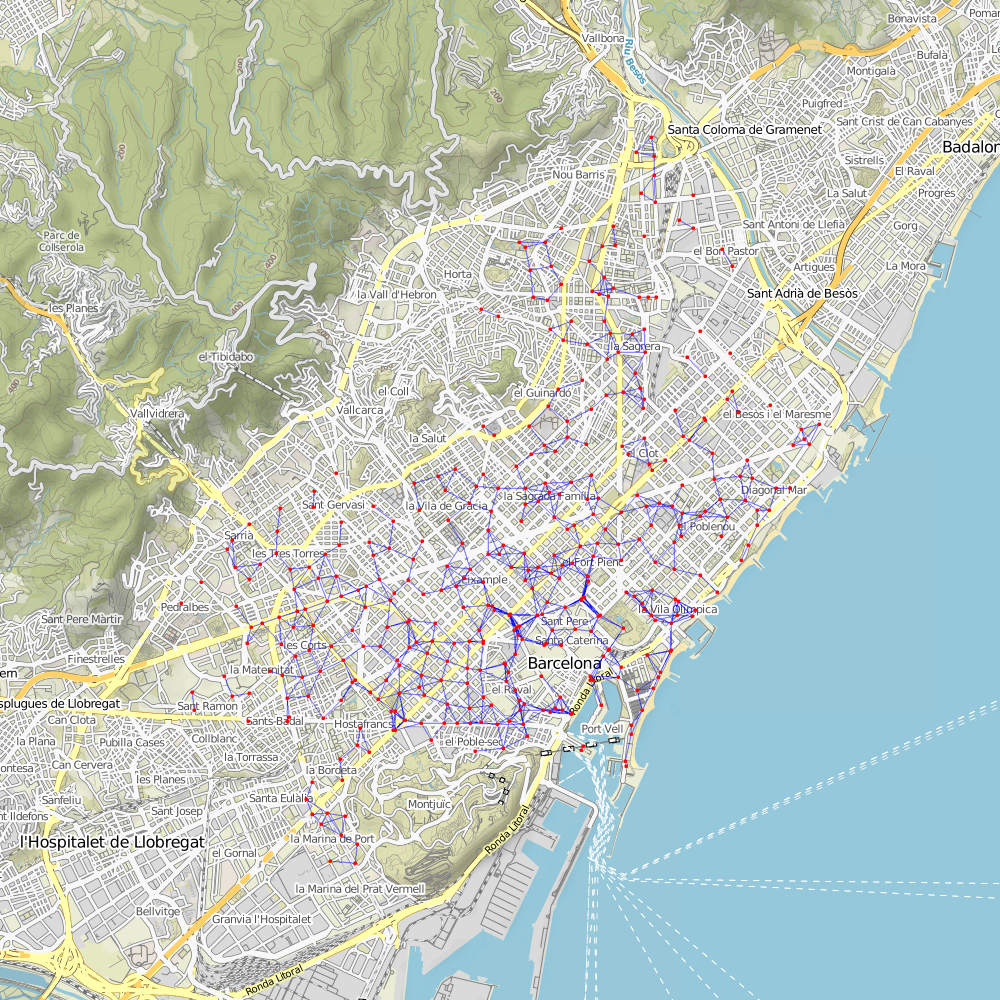
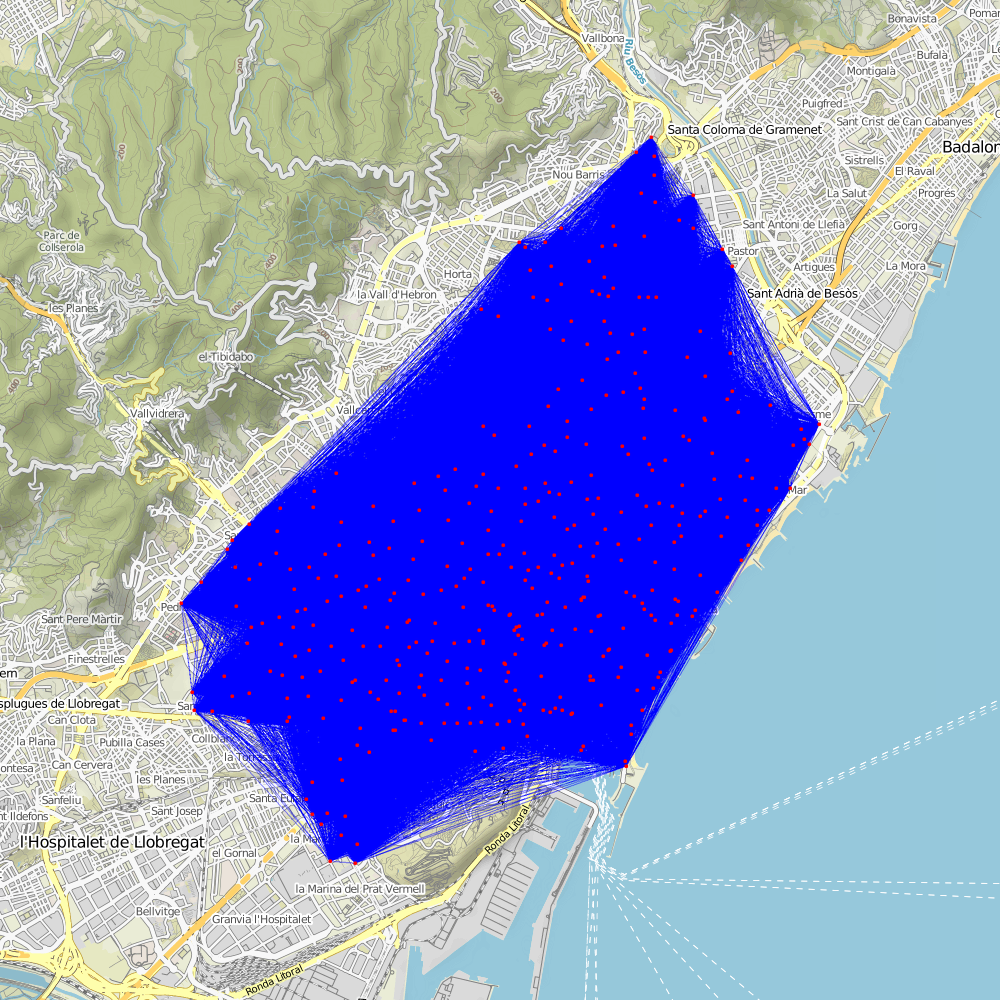
prueba los cambios con Passeig de Gràcia 92, La Rambla 51 y d = 10000

Changed region(s): [[0.186, 0.124, 0.837, 0.868]]

diff --git a/data.py b/data.py
@@ -2,9 +2,12 @@ import pep8
 import pandas as pd
 import networkx as nx
 import staticmap as stm
+import collections as cl
 from geopy.geocoders import Nominatim
 from haversine import haversine
 from jutge import read, read_line
+
+Pandas = cl.namedtuple('Pandas', 'lat lon')
 
 def Graph(dist = 1000):
     url = 'https://api.bsmsa.eu/ext/api/bsm/gbfs/v2/en/station_information'
@@ -20,7 +23,7 @@ def Graph(dist = 1000):
     print("Graph created!")
     return G
 
-def Plotgraph(G):
+def Plotgraph(G,name):
     try:
         m_bcn = stm.StaticMap(1000, 1000)
         for node in G.nodes:
@@ -32,7 +35,7 @@ def Plotgraph(G):
             m_bcn.add_line(line)
 
         image = m_bcn.render()
-        image.save('stations.png')
+        image.save(name)
         print("Image done!")
     except:
         print("This is not a graph!") # Revisar en el futuro el try / excepts
@@ -49,7 +52,6 @@ def Edges(G):
 def addressesTOcoordinates(addresses):
     try:
         geolocator = Nominatim(user_agent = "bicing_bot")
-        print(addresses)
         address1, address2 = addresses.split(',')
         location1 = geolocator.geocode(address1 + ', Barcelona')
         location2 = geolocator.geocode(address2 + ', Barcelona')
@@ -59,12 +61,33 @@ def addressesTOcoordinates(addresses):
 
 def Route(G, addresses):
     coord1, coord2 = addressesTOcoordinates(addresses)
-    Gc = G.complement()
-    for node in Gc.edges:
-        coord_node = (node.lat, node.lon)
-        Gc.add_edge(node, coord1, weight = 2*haversine(coord_node, coord1))
-        Gc.add_edge(node, coord1, weight = 2*haversine(coord_node, coord2))
-    Gc = union(G, Gc)
+    print(coord1)
+    print(coord2)
+    Gc = nx.complement(G)
+    #este bucle modifica los pesos
+    for edge in Gc.edges:
+        weight=haversine((edge[0].lat, edge[0].lon), (edge[1].lat, edge[1].lon))
+        Gc.add_edge(edge[0],edge[1],weight = 10/4*weight)
+    '''
+    ATENCION, para añadir los nodes coord1 y coord2,
+    los he creado de manera que se pueda acceder a sus coordenadas de la forma:
+    noseque.lat noseque.lon, para eso he creao un tipo namedtuple, que es lo mismo
+    que te devuelve itertuples() y por lo tanto el mismo formato que tienen las
+    estaciones del DataFrame.
+    '''
+    start = Pandas(lat=coord1[0] , lon=coord1[1])
+    finish = Pandas(lat=coord2[0] , lon=coord2[1])
+    Gc.add_node(start)
+    Gc.add_node(finish)
+    #este añade las arestas que unen start y finish con los demás
+    for node in Gc.nodes:
+        weight1=haversine((node.lat, node.lon),(start.lat, start.lon))
+        weight2=haversine((node.lat, node.lon),(finish.lat, finish.lon))
+        Gc.add_edge(node,start,weight = 10/4*weight1)
+        Gc.add_edge(node,finish,weight = 10/4*weight2)
+    Plotgraph(Gc,'complement.png')
+    Gc = nx.disjoint_union(G, Gc)
+
     # hacer dykstra con Gc
     # ¿Crear un nuevo grafo con el trayecto dado para poder printearlo?
     # Se podría calcular el tiempo estimado que tardará en hacer el trayecto.
@@ -76,7 +99,7 @@ def main():
     while action is not None:
         if action == "graph":
             G = Graph(read(int))
-        elif action == "plotgraph": Plotgraph(G)
+        elif action == "plotgraph": Plotgraph(G,'stations.png')
         elif action == "components": Components(G)
         elif action == "nodes": Nodes(G)
         elif action == "edges": Edges(G)

diff --git a/mierda.py b/mierda.py
@@ -4,7 +4,7 @@ import networkx as nx
 import staticmap as stm
 from geopy.geocoders import Nominatim
 from haversine import haversine
-from jutge import read
+from jutge import read, read_line
 
 def Create_Graph(dist = 1000):
     url = 'https://api.bsmsa.eu/ext/api/bsm/gbfs/v2/en/station_information'
@@ -49,12 +49,14 @@ def main():
     for e in G.edges:
         print(e)
     Paint_Graph(G)
-    print(Components(G))'''
+    print(Components(G))
 
     geolocator = Nominatim(user_agent = "bicing_bot")
     location1 = geolocator.geocode('Passeig de Gràcia 92' + ', Barcelona')
     print(location1)
-
+    '''
+    resto = read_line()
+    print(resto)
 
     #geolocator = Nominatim(user_agent="bicing_bot")
     #location1 = geolocator.geocode('Salvador Espriu, Mollet del Valles')
